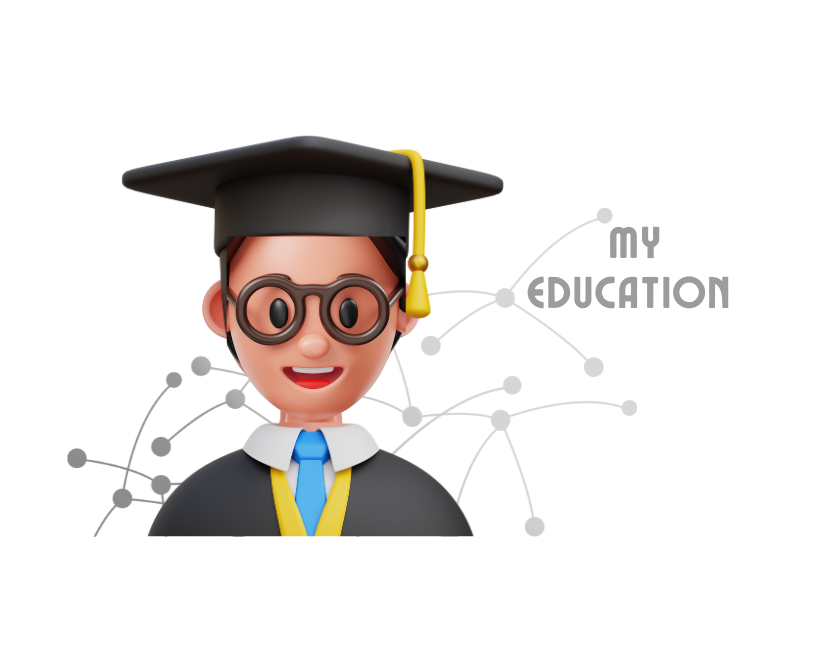
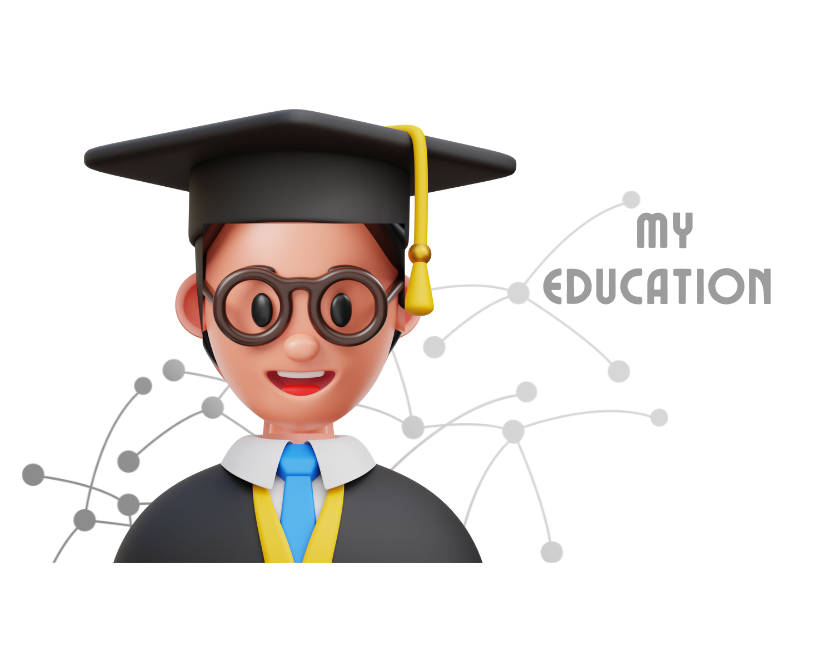
about done

diff --git a/src/sections/About.tsx b/src/sections/About.tsx
@@ -7,35 +7,51 @@ import dynamic from 'next/dynamic';
 import {Card} from '@/components/Card'
 import { CardHeader } from '@/components/CardHeader';
 import { SkillsMaarque } from '@/components/SkillMarquee';
+import { motion } from 'framer-motion';
+import { useRef } from 'react';
 
 const hobbies = [
   {
     title: 'Photography',
-    emoji: '📸'
+    emoji: '📸',
+    left: "10%",
+    top: "25%"
   },
   {
     title: 'Gaming',
-    emoji: '🎮'
+    emoji: '🎮',
+    left: "50%",
+    top: "5%"
   },
   {
     title: 'Exploring',
-    emoji: '🌐'
+    emoji: '🌐',
+    left: "10%",
+    top: "45%"
   },
   {
      title: 'Writing',
-    emoji: '✍'
+    emoji: '✍',
+    left: "50%",
+    top: "40%"
   },
   {
     title: 'Traveling',
-    emoji: '✈'
+    emoji: '✈',
+    left: "5%",
+    top: "5%"
   },
   {
     title: 'Reading',
-    emoji: '📚'
+    emoji: '📚',
+    left: "60%",
+    top: "70%"
   },
   {
     title: 'Music',
-    emoji: '🎵'
+    emoji: '🎵',
+    left: "20%",
+    top: "70%"
   },
 ]
 
@@ -44,6 +60,7 @@ const Globe = dynamic(() => import('react-globe.gl'), { ssr: false });
 export const AboutSection = () => {
   const imageWho = whoImage.src;
   const imageTool = toolImage.src;
+  const constraintRef = useRef(null);
   return (   
     <section id='about' className=" pt-24 mb-20 lg:mx-10 md:mx-10 sm:mx-3">
       <h1 className='text-4xl font-semibold'>About Me</h1>
@@ -61,40 +78,40 @@ export const AboutSection = () => {
         <Card className='col-span-1 xl:row-span-4 border'>
         <CardHeader title='My Location' imageUrl="" description=""/>
           <div className='grid-container'>
-            <div className='rounded-3xl w-full sm:h-[326px] h-fit flex flex-col items-center py-10'>
+            <div className='rounded-3xl w-full h-fit flex flex-col items-center py-10'>
               <Globe height={326} width={326} backgroundColor='rgba(0, 0, 0, 0)' showAtmosphere showGraticules globeImageUrl="//unpkg.com/three-globe/example/img/earth-night.jpg" bumpImageUrl="//unpkg.com/three-globe/example/img/earth-topology.png" labelsData={[{ lat: 23.8103, lng: 90.4125, text: "I'm here", color: 'white', size: 15 }]}              />
-              <div className='px-10'>
-                <p className='grid-headtext'>I work remotely across most timezones</p>
-                <p className='grid-subtext'>I'm based in Bangladesh, with remote work availbale</p>
+              <div>
+                <p className='text-sm text-white/60'>Available for remote work worldwide</p>
+                <p className='text-sm text-white/60'>Based in Bangladesh, collaborating globally</p>
                 <div className='bg-gray-950 border border-gray-500 mt-3 px-4 py-1.5 inline-flex items-center gap-4 rounded-lg'>
                   <div className='bg-green-600 size-2.5 rounded-full relative'>
                     <div className='bg-green-600 absolute inset-0 rounded-full animate-ping-large'></div>
                   </div>
-                  <div className='text-sm font-semibold'>Available for New Opportunities</div>
+                  <div className='text-sm text-white/60 font-semibold'>Available for New Opportunities</div>
                 </div>
               </div>
             </div>
           </div>
         </Card>
 
-        <Card className="xl:col-span-2 xl:row-span-3 border shadow-lg">
+        <Card className="xl:col-span-2 xl:row-span-3 border ">
         <CardHeader title='My Education'  description="" />
-          <div className="grid xl:flex justify-between mt-7 items-center gap-10 p-4 relative">
+          <div className="flex flex-col xl:flex-row justify-between mt-7 sm:mt-0 items-center gap-10 p-4 relative">
             <div className="w-full xl:w-1/2">
-              <Image src={eduImage} alt="grid-3" className="w-full h-auto sm:h-[266px] object-contain" />
+              <Image src={eduImage} alt="grid-3" className="w-full h-auto sm:h-[200px] object-contain" />
             </div>
-            <div className="border-l-4 absolute left-1/2 border-gray-400 text-white/60 h-full p-5 justify-center flex flex-col gap-4">
-              <div className='relative border rounded-lg p-2 before:absolute before:top-[10px] before:left-[-30px] before:w-[15px] before:h-[15px] before:bg-black before:border-4 before:border-gray-300 before:rounded-full'>
+            <div className="w-full xl:w-1/2 border-l-4 left-1/2 border-white/60 text-white/60  p-5 justify-center flex flex-col gap-4">
+              <div className='relative border rounded-lg p-2 before:absolute before:top-[10px] before:left-[-30px] before:w-[15px] before:h-[15px] before:bg-black before:border-4 before:border-white/60 before:rounded-full'>
                 <h1 className='font-semibold'>ADUST</h1>
                 <p className='text-xs'>Computer Science & Engineering</p>
                 <p className='text-xs'>2024 - Present</p>
               </div>
-              <div className='relative border rounded-lg p-2 before:absolute before:top-[10px] before:left-[-30px] before:w-[15px] before:h-[15px] before:bg-black before:border-4 before:border-gray-300 before:rounded-full'>
+              <div className='relative border rounded-lg p-2 before:absolute before:top-[10px] before:left-[-30px] before:w-[15px] before:h-[15px] before:bg-black before:border-4 before:border-white/60 before:rounded-full'>
                 <h1 className='font-semibold'>Phitron</h1>
                 <p className='text-xs'>Software Developmet</p>
                 <p className='text-xs'>2023 - 2024</p>
               </div>
-              <div className='relative border rounded-lg p-2 before:absolute before:top-[10px] before:left-[-30px] before:w-[15px] before:h-[15px] before:bg-black before:border-4 before:border-gray-300 before:rounded-full'>
+              <div className='relative border rounded-lg p-2 before:absolute before:top-[10px] before:left-[-30px] before:w-[15px] before:h-[15px] before:bg-black before:border-4 before:border-white/60 before:rounded-full'>
                 <h1 className='font-semibold'>Sheriyan Coding School</h1>
                 <p className='text-xs'>Frontend Development</p>
                 <p className='text-xs'>2023 - 2024</p>
@@ -104,14 +121,14 @@ export const AboutSection = () => {
         </Card>
 
 
-        <Card className='xl:col-span-1 xl:row-span-2 border'>
-          <CardHeader title='Beyond the Code' imageUrl={''} description="" />
-          <div>
+        <Card className='col-span-1 xl:row-span-2 border p-0 flex flex-col min-h-[300px] sm:min-h-auto'>
+          <CardHeader className='px-6 pt-6' title='Exploring Beyond Code' imageUrl={''} description="" />
+          <div className='relative flex-1' ref={constraintRef}>
               {hobbies.map (hobby => (
-                <div key={hobby.title}>
-                  <span>{hobby.title}</span>
+                <motion.div key={hobby.title} className='inline-flex items-center gap-2 px-6 bg-gradient-to-r from-gray-500 to-gray-600 rounded-full py-1.5 absolute' style={{ left: hobby.left, top: hobby.top, }} drag dragConstraints={constraintRef}>
+                  <span className='font-medium text-gray-950'>{hobby.title}</span>
                   <span>{hobby.emoji}</span>
-                </div>
+                </motion.div>
               ))}
           </div>
         </Card>
